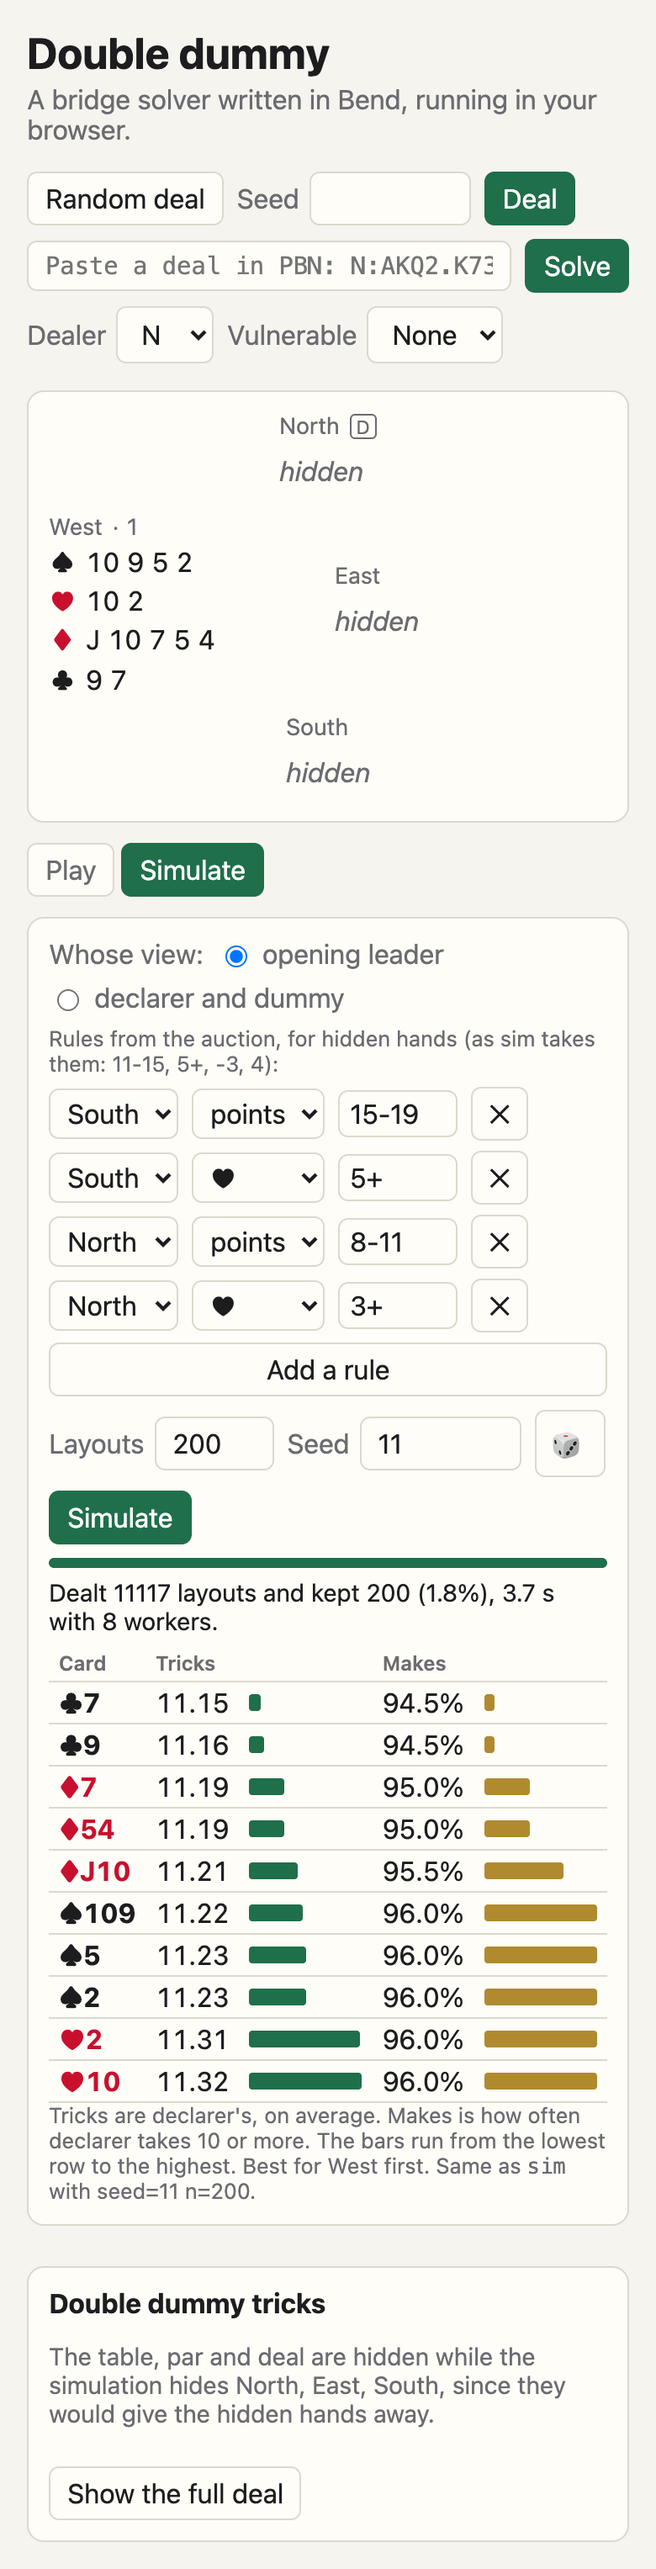
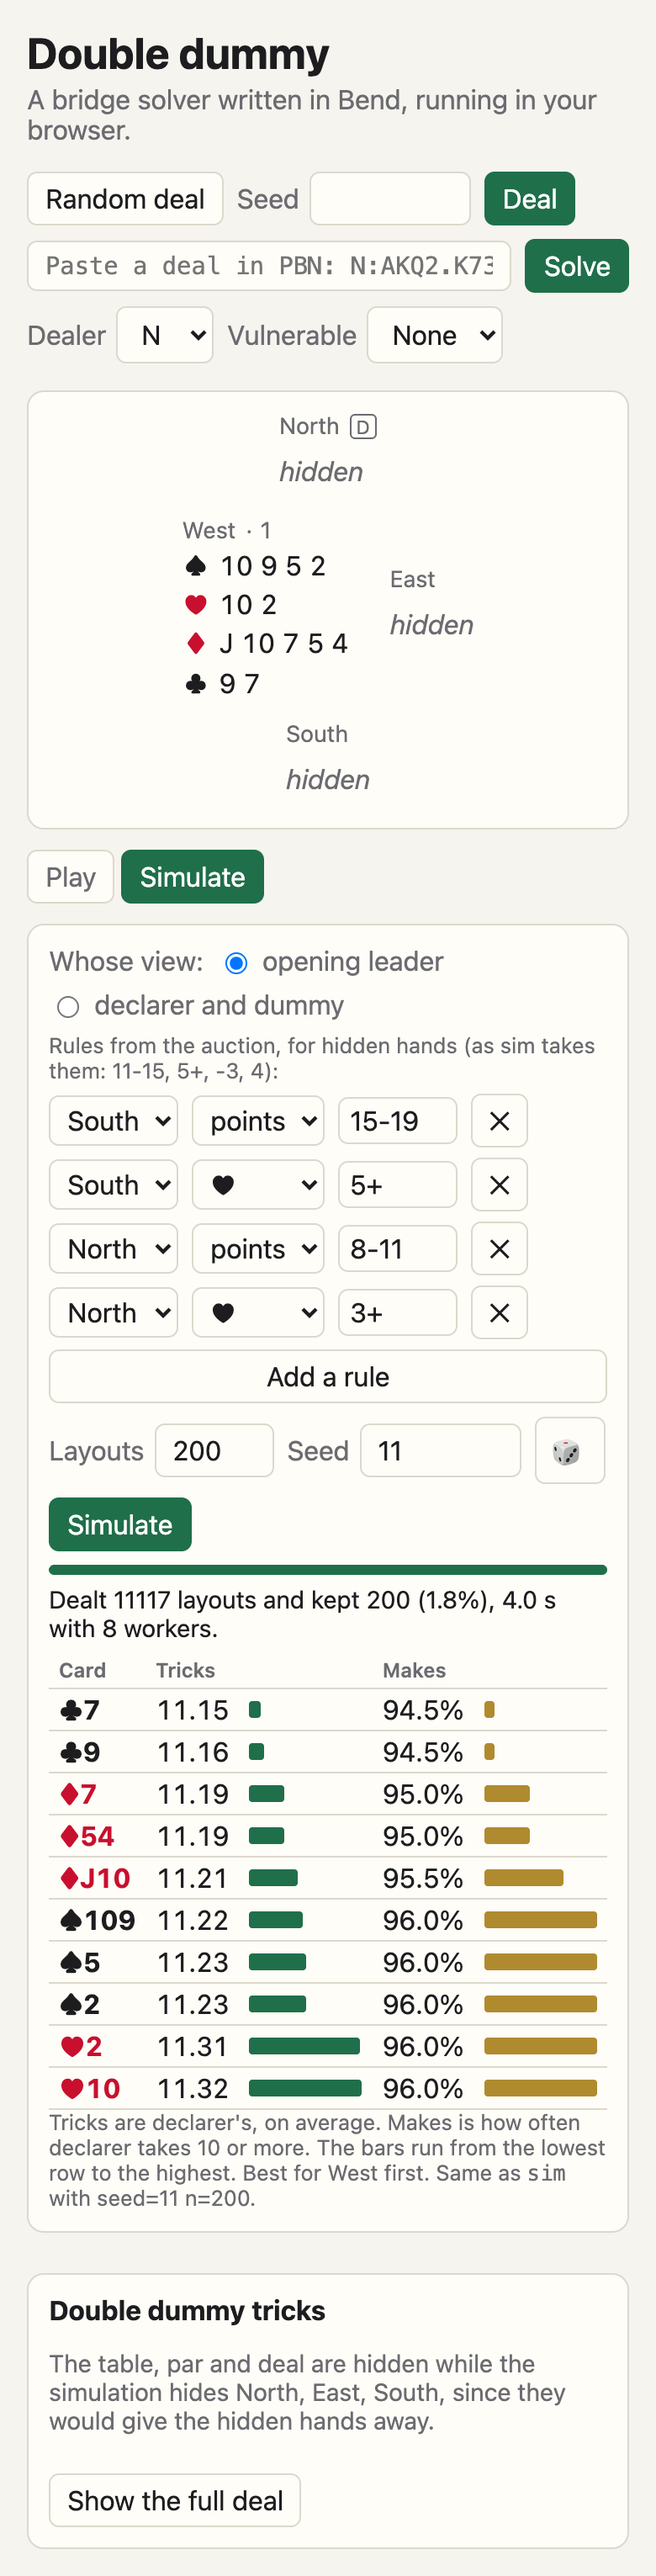
Diagram: compact and symmetrical; solve times behind a details toggle
The hand diagram is now a standard bridge diagram, centred in its card.
West and East sit in columns of the same width, right- and left-aligned
against the compass, so both gaps match and the compass is in the middle.
The middle column is the compass's width, and North and South stand centred
over and under it. At phone width West and East sit side by side under
North. Before this, West was pushed to the card's edge and East hugged
the compass.

The unlabelled row of solve times under the DD table is gone. The
"Solved in" line has a details toggle that lists each strain's time,
labelled in seconds.

web/bench/layout.mjs (run by tools/web.sh shots) measures the layout in
Chromium for long hands (a 7-card suit with a 10), play-through boxes and
4H by W, at desktop, medium and phone widths, in light and dark. It checks
equal gaps, North and South centred, the compass at the card's centre and
no overflow, and saves web/shots/layout-*.png and medium-dark.png. The page
check also covers the details toggle.

Claude-Session: https://claude.ai/code/session_01Fbfe28asDP4VexCVSouJUP

diff --git a/web/src/style.css b/web/src/style.css
@@ -43,20 +43,32 @@ label { display: inline-flex; gap: 6px; align-items: center; color: var(--muted)
 @media (max-width: 720px) { .board { grid-template-columns: 1fr; } }
 
 .diagram {
-  display: grid;
-  grid-template-columns: 1fr auto 1fr;
-  grid-template-rows: auto auto auto;
-  gap: 8px;
-  align-items: center;
   background: var(--card);
   border: 1px solid var(--line);
   border-radius: 10px;
-  padding: 12px;
+  padding: 14px 12px;
+  overflow-x: auto;
 }
-.pos0 { grid-column: 2; grid-row: 1; }
-.pos3 { grid-column: 1; grid-row: 2; }
-.pos1 { grid-column: 3; grid-row: 2; }
-.pos2 { grid-column: 2; grid-row: 3; }
+/* A standard bridge diagram, centred in its card: West and East in columns of the
+   same width (the wider hand's), right- and left-aligned against the compass, so
+   the compass sits in the middle and both gaps match. The middle column is the
+   compass's width; North and South, usually wider, stand centred over and under it
+   and spill evenly into the columns either side. */
+.dgrid {
+  display: grid;
+  grid-template-columns: minmax(8em, 1fr) 72px minmax(8em, 1fr);
+  grid-template-rows: auto auto auto;
+  width: max-content;
+  margin: 0 auto;
+  align-items: center;
+  column-gap: 18px;
+  row-gap: 10px;
+}
+.dgrid:has(.compass.playing) { grid-template-columns: minmax(8em, 1fr) 120px minmax(8em, 1fr); }
+.pos0 { grid-column: 2; grid-row: 1; justify-self: unsafe center; width: max-content; }
+.pos3 { grid-column: 1; grid-row: 2; justify-self: end; }
+.pos1 { grid-column: 3; grid-row: 2; justify-self: start; }
+.pos2 { grid-column: 2; grid-row: 3; justify-self: unsafe center; width: max-content; }
 .compass {
   grid-column: 2; grid-row: 2;
   width: 72px; height: 72px; justify-self: center;
@@ -79,12 +91,14 @@ label { display: inline-flex; gap: 6px; align-items: center; color: var(--muted)
 .s1, .s2 { color: var(--red); }
 .ranks { letter-spacing: 0.02em; }
 
-/* At phone width the hands stack: North, West and East side by side, South. */
-@media (max-width: 420px) {
-  .diagram { grid-template-columns: 1fr 1fr; }
+/* At phone width there is no room for the compass between West and East: they sit
+   side by side under North, centred, and the compass (in play) goes below South. */
+@media (max-width: 480px) {
+  .diagram { padding: 12px 8px; }
+  .dgrid, .dgrid:has(.compass.playing) { grid-template-columns: auto auto; column-gap: 20px; }
   .pos0 { grid-column: 1 / span 2; grid-row: 1; justify-self: center; }
-  .pos3 { grid-column: 1; grid-row: 2; }
-  .pos1 { grid-column: 2; grid-row: 2; }
+  .pos3 { grid-column: 1; grid-row: 2; justify-self: end; }
+  .pos1 { grid-column: 2; grid-row: 2; justify-self: start; }
   .pos2 { grid-column: 1 / span 2; grid-row: 3; justify-self: center; }
   .compass { display: none; }
 }
@@ -97,7 +111,6 @@ table.dd tbody th { color: var(--muted); font-weight: 600; text-align: left; }
 table.dd td { font-size: 1.15rem; }
 table.dd td.make { font-weight: 700; }
 table.dd td.wait { color: var(--muted); }
-table.dd tfoot td, table.dd tfoot th { border: 0; font-size: 0.7rem; color: var(--muted); padding-top: 2px; }
 .par { margin: 12px 0 4px; }
 .meta { color: var(--muted); font-size: 0.85rem; margin: 4px 0; }
 .wait { color: var(--muted); }
@@ -125,7 +138,7 @@ button.card:hover, button.card:focus-visible { border-color: var(--ink); }
 .compass .last { opacity: 0.45; }
 .compass .turn { color: var(--accent); font-weight: 700; }
 .compass .mid { position: absolute; inset: 0; display: flex; align-items: center; justify-content: center; font-size: 0.65rem; color: var(--muted); pointer-events: none; }
-@media (max-width: 420px) {
+@media (max-width: 480px) {
   .compass.playing { display: grid; grid-column: 1 / span 2; grid-row: 4; justify-self: center; }
 }
 table.dd td { padding: 2px; }
@@ -165,3 +178,9 @@ button.stop { background: var(--red); border-color: var(--red); }
 
 .secret p { font-size: 0.9rem; }
 button.reveal { background: var(--card); color: var(--ink); border-color: var(--line); margin-top: 8px; }
+
+details.meta summary { cursor: pointer; list-style: none; }
+details.meta summary::-webkit-details-marker { display: none; }
+details.meta .more { text-decoration: underline; font-size: 0.8rem; margin-left: 4px; }
+details.meta[open] .more { display: none; }
+details.meta .times { margin: 4px 0 0; }

diff --git a/web/src/main.tsx b/web/src/main.tsx
@@ -169,10 +169,10 @@ function Compass({ play, bottom }: { play: Play | null; bottom: number }) {
 
 function Diagram({ deal, dealer, vul, modes, play, bottom }: { deal: Deal; dealer: number; vul: Vul; modes: HandMode[]; play: Play | null; bottom: number }) {
   return (
-    <div class="diagram">
+    <div class="diagram"><div class="dgrid">
       {deal.map((h, seat) => <HandView seat={seat} pos={place(seat, bottom)} hand={h} dealer={dealer} vul={vul} mode={modes[seat]} mover={!!play && !play.over && play.mover === seat && modes[seat].kind === "play"} />)}
       <Compass play={play} bottom={bottom} />
-    </div>
+    </div></div>
   );
 }
 
@@ -183,7 +183,7 @@ function Diagram({ deal, dealer, vul, modes, play, bottom }: { deal: Deal; deale
 const ROWS = [0, 2, 1, 3]; // N S E W
 const COLS = [4, 0, 1, 2, 3]; // NT ♠ ♥ ♦ ♣
 
-function TableView({ table, times, pick, chosen }: { table: Table; times: (number | null)[]; pick: (s: number, seat: number, tricks: number) => void; chosen?: [number, number] }) {
+function TableView({ table, pick, chosen }: { table: Table; pick: (s: number, seat: number, tricks: number) => void; chosen?: [number, number] }) {
   return (
     <table class="dd">
       <thead>
@@ -206,12 +206,6 @@ function TableView({ table, times, pick, chosen }: { table: Table; times: (numbe
           </tr>
         ))}
       </tbody>
-      <tfoot>
-        <tr>
-          <th></th>
-          {COLS.map((s) => <td class="ms">{times[s] == null ? "" : (times[s]! / 1000).toFixed(2)}</td>)}
-        </tr>
-      </tfoot>
     </table>
   );
 }
@@ -555,14 +549,19 @@ function App() {
             ) : (
               <>
               <h2>Double dummy tricks</h2>
-              <TableView table={table} times={times} pick={pick} chosen={playing ? [state.strain!, state.by!] : undefined} />
+              <TableView table={table} pick={pick} chosen={playing ? [state.strain!, state.by!] : undefined} />
               <p class="par">
                 {parResult ? <>Par: <strong>{parResult.text}</strong></> : <span class="wait">Solving…</span>}
               </p>
-              <p class="meta">
-                {total != null ? `Solved in ${(total / 1000).toFixed(2)} s with ${pool.size} workers.` : `${pool.size} workers, one strain each.`}
-                {state.seed !== undefined && !state.pbn && <> Same deal as <code>dd --random {state.seed}</code>.</>}
-              </p>
+              {total != null ? (
+                <details class="meta">
+                  <summary>Solved in {(total / 1000).toFixed(2)} s with {pool.size} workers. <span class="more">details</span></summary>
+                  <p class="times">Each strain in a worker of its own, all started together; each finished after:{" "}
+                    {COLS.map((s, i) => <span class="t">{i > 0 && ", "}{STRAINS[s]} {(times[s]! / 1000).toFixed(2)} s</span>)}.
+                  </p>
+                </details>
+              ) : <p class="meta">{pool.size} workers, one strain each.</p>}
+              {state.seed !== undefined && !state.pbn && <p class="meta">Same deal as <code>dd --random {state.seed}</code>.</p>}
               {!playing && done && <p class="hint">Click a number to play that contract.</p>}
               <p class="pbn-out"><code>{pbn}</code></p>
                 {simMode && hidden.length > 0 && <button type="button" class="reveal" onClick={() => setReveal(false)}>Hide the full deal</button>}
